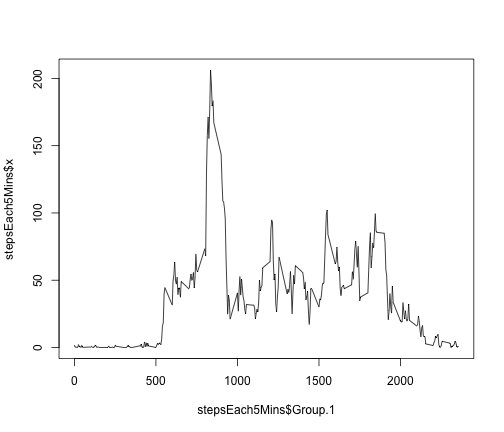
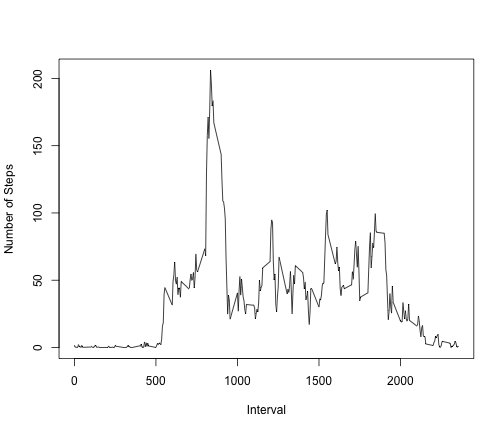
changing axis labels on daily activity pattern plot

Changed region(s): [[0.3869, 0.9329, 0.6845, 0.963], [0.0, 0.3611, 0.0298, 0.6019]]

diff --git a/PA1_template.html b/PA1_template.html
@@ -216,10 +216,11 @@ axis(1, at = bp, labels = stepsEachDay$Group.1, las = 3)
 
 <pre><code class="r">stepsEach5Mins &lt;- aggregate(data$steps, by = list(data$interval), FUN = mean, 
     na.rm = TRUE)
-plot(stepsEach5Mins$Group.1, stepsEach5Mins$x, type = &quot;l&quot;)
+plot(stepsEach5Mins$Group.1, stepsEach5Mins$x, type = &quot;l&quot;, xlab = &quot;Interval&quot;, 
+    ylab = &quot;Number of Steps&quot;)
 </code></pre>
 
[2 lines of base64/hex data omitted]
 
 <p>Which 5-minute interval, on average across all the days in the dataset, contains the maximum number of steps?</p>
 

diff --git a/PA1_template.md b/PA1_template.md
@@ -48,7 +48,8 @@ median(stepsEachDay$x)
 ```r
 stepsEach5Mins <- aggregate(data$steps, by = list(data$interval), FUN = mean, 
     na.rm = TRUE)
-plot(stepsEach5Mins$Group.1, stepsEach5Mins$x, type = "l")
+plot(stepsEach5Mins$Group.1, stepsEach5Mins$x, type = "l", xlab = "Interval", 
+    ylab = "Number of Steps")
 ```
 
 ![plot of chunk unnamed-chunk-4](figure/unnamed-chunk-4.png) 
